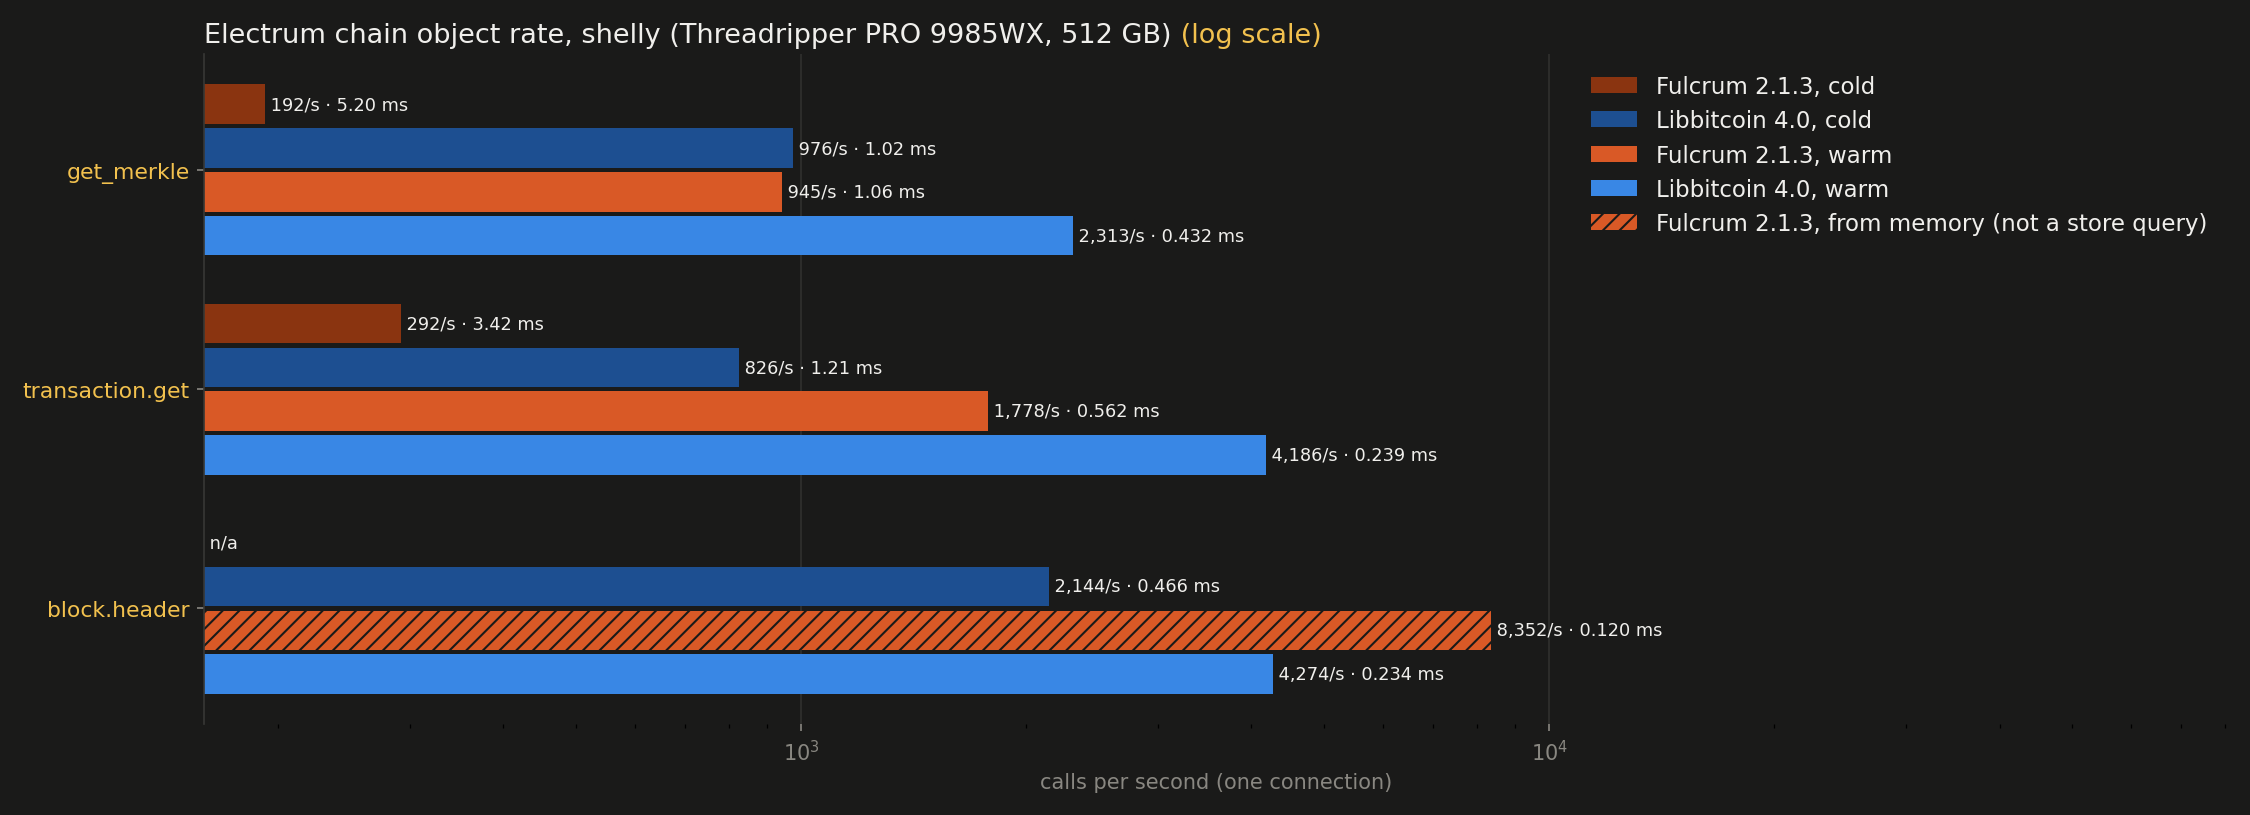
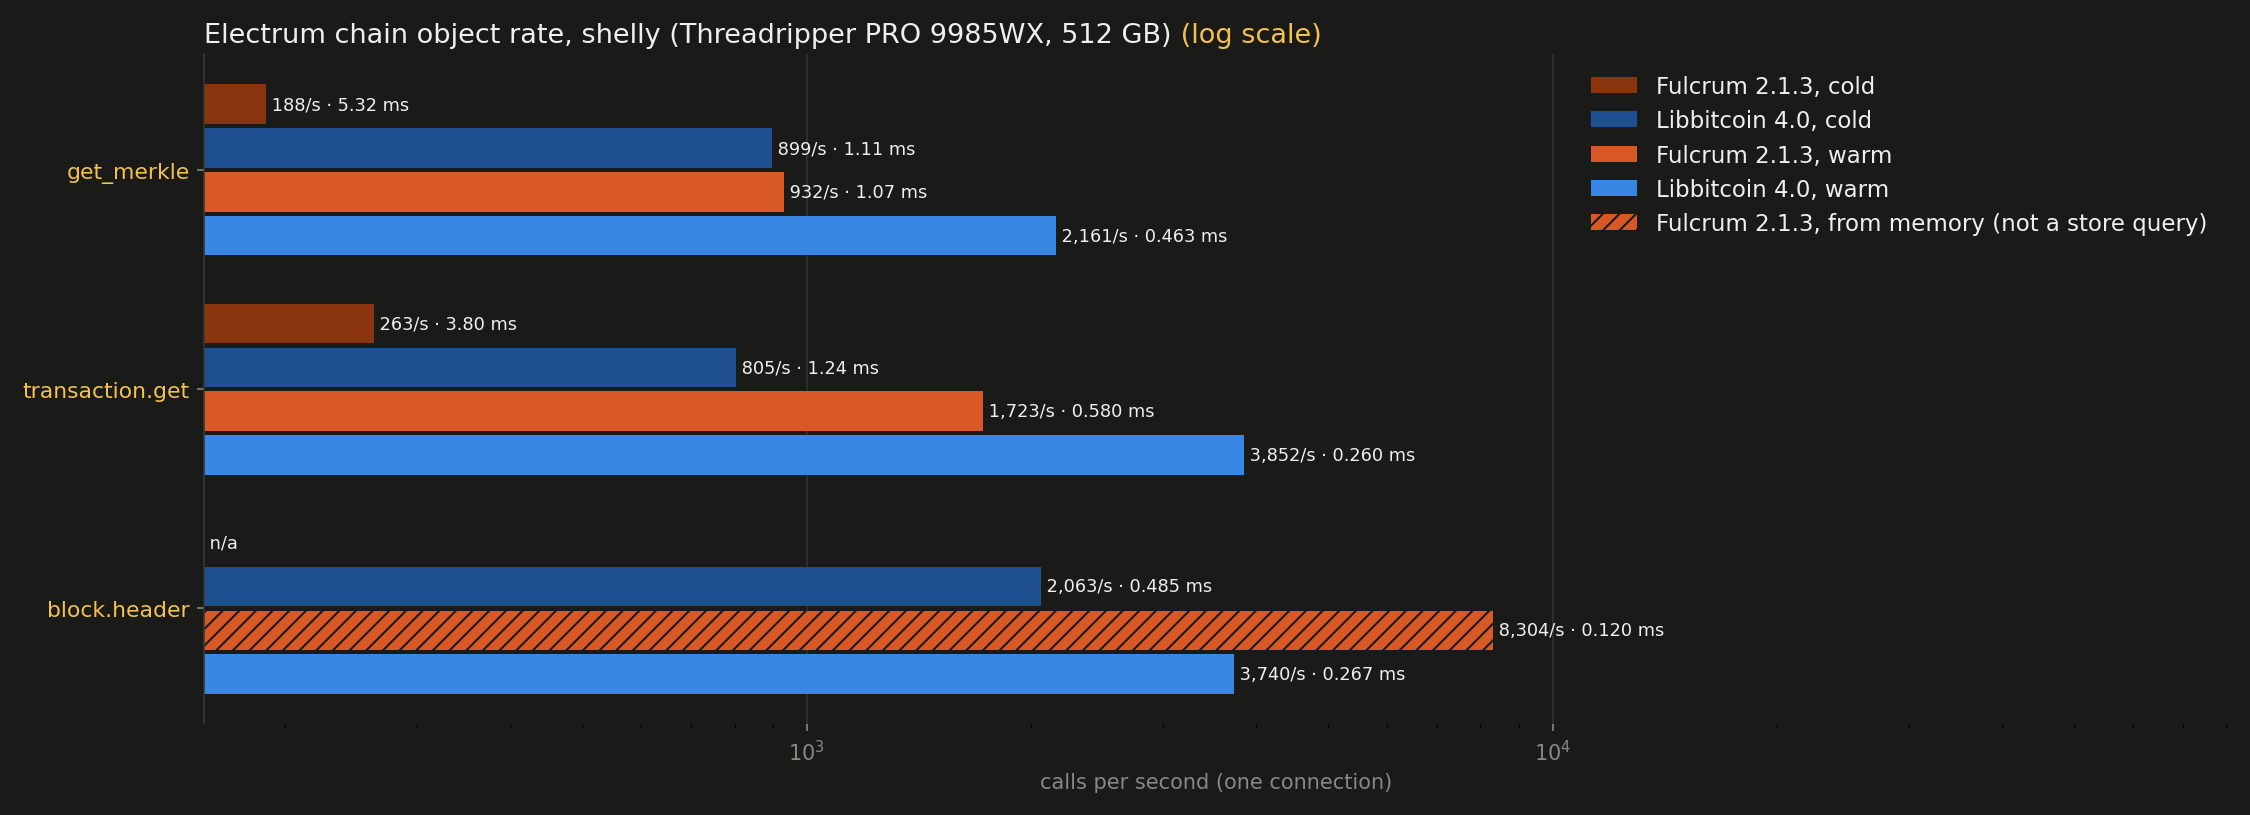
Update performance charts with new data.

diff --git a/interface-performance.html b/interface-performance.html
@@ -440,9 +440,11 @@
       chain: a block, a transaction and an output script from each.
     </p>
     <p class="lede">
-      Each server starts once and runs until idle. Each of three repetitions, on its own requests,
-      empties working sets and purges the standby list, sends 5 s of untimed pings, then makes a
-      cold pass in shuffled order and a warm pass on the same requests in another order.
+      Each of three repetitions, on its own requests, stops the servers, empties working sets,
+      flushes modified pages and purges the standby list, restarts the servers and waits until
+      idle, sends 5 s of untimed pings, then makes a cold pass in shuffled order and a warm pass on
+      the same requests in another order. Every cold pass therefore starts with nothing resident,
+      including each server's own caches.
     </p>
     <p class="lede after">
       A call is timed from request to the last response byte, received into a preallocated
